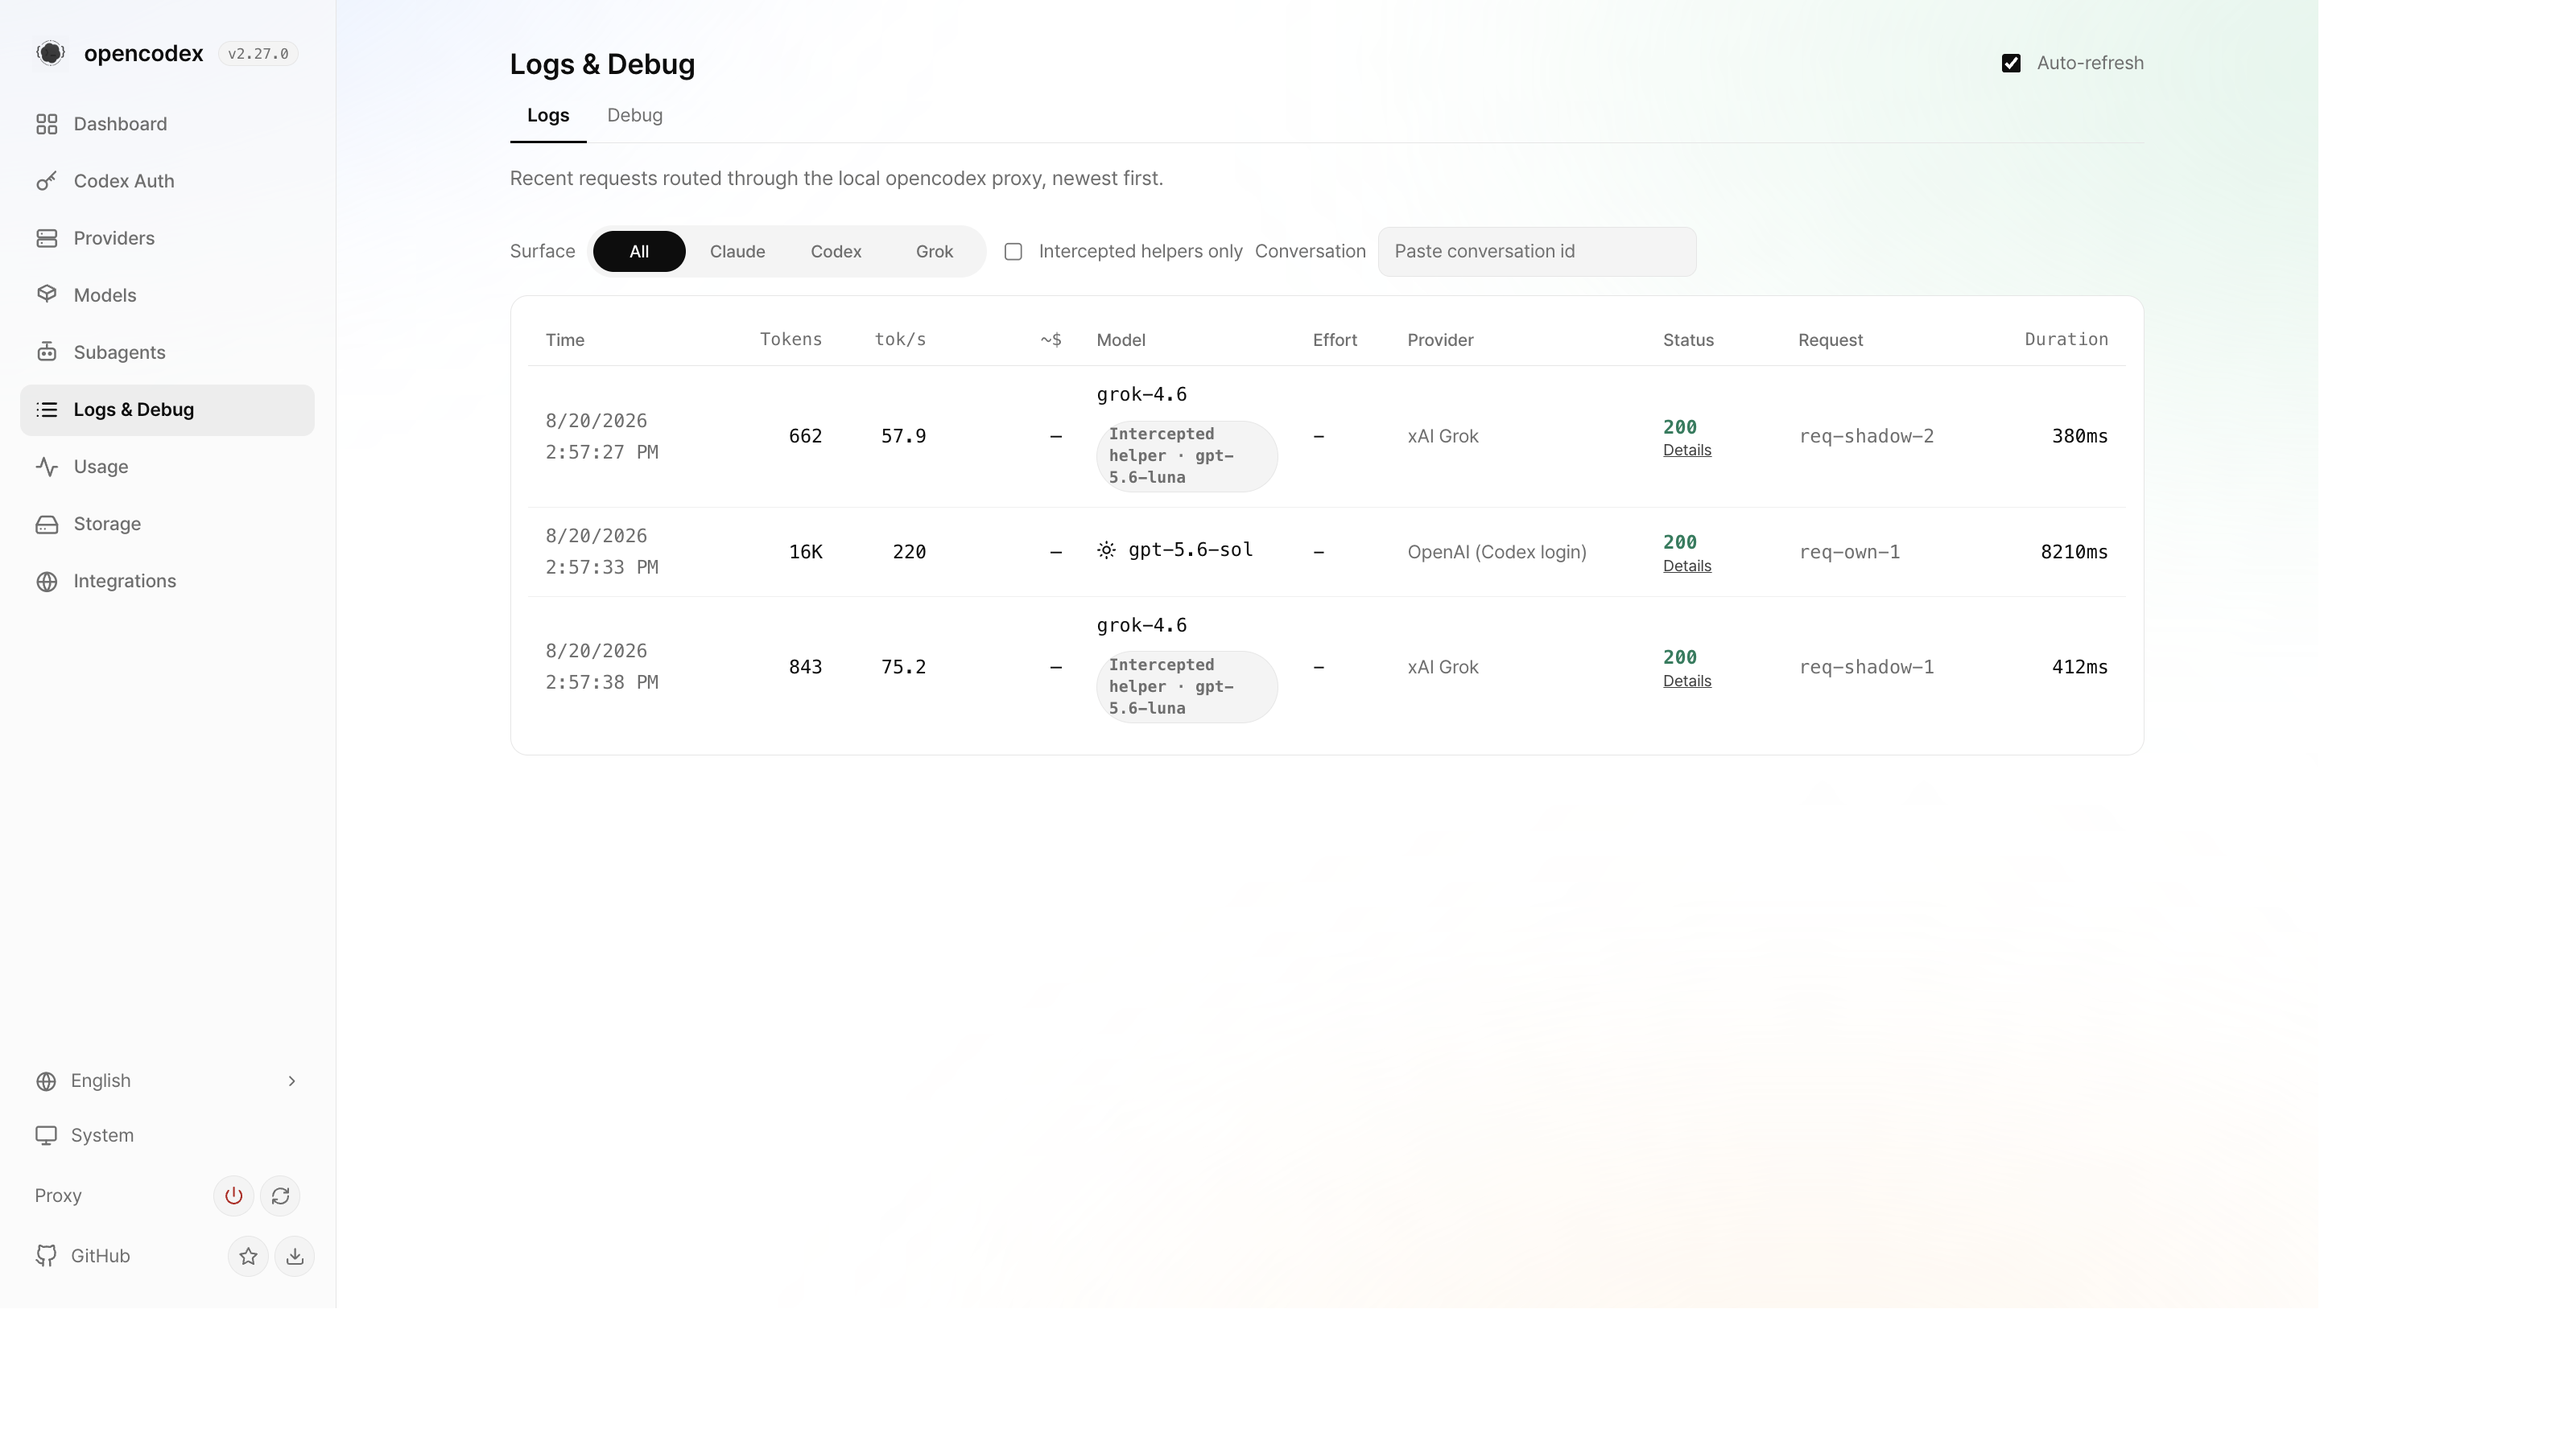
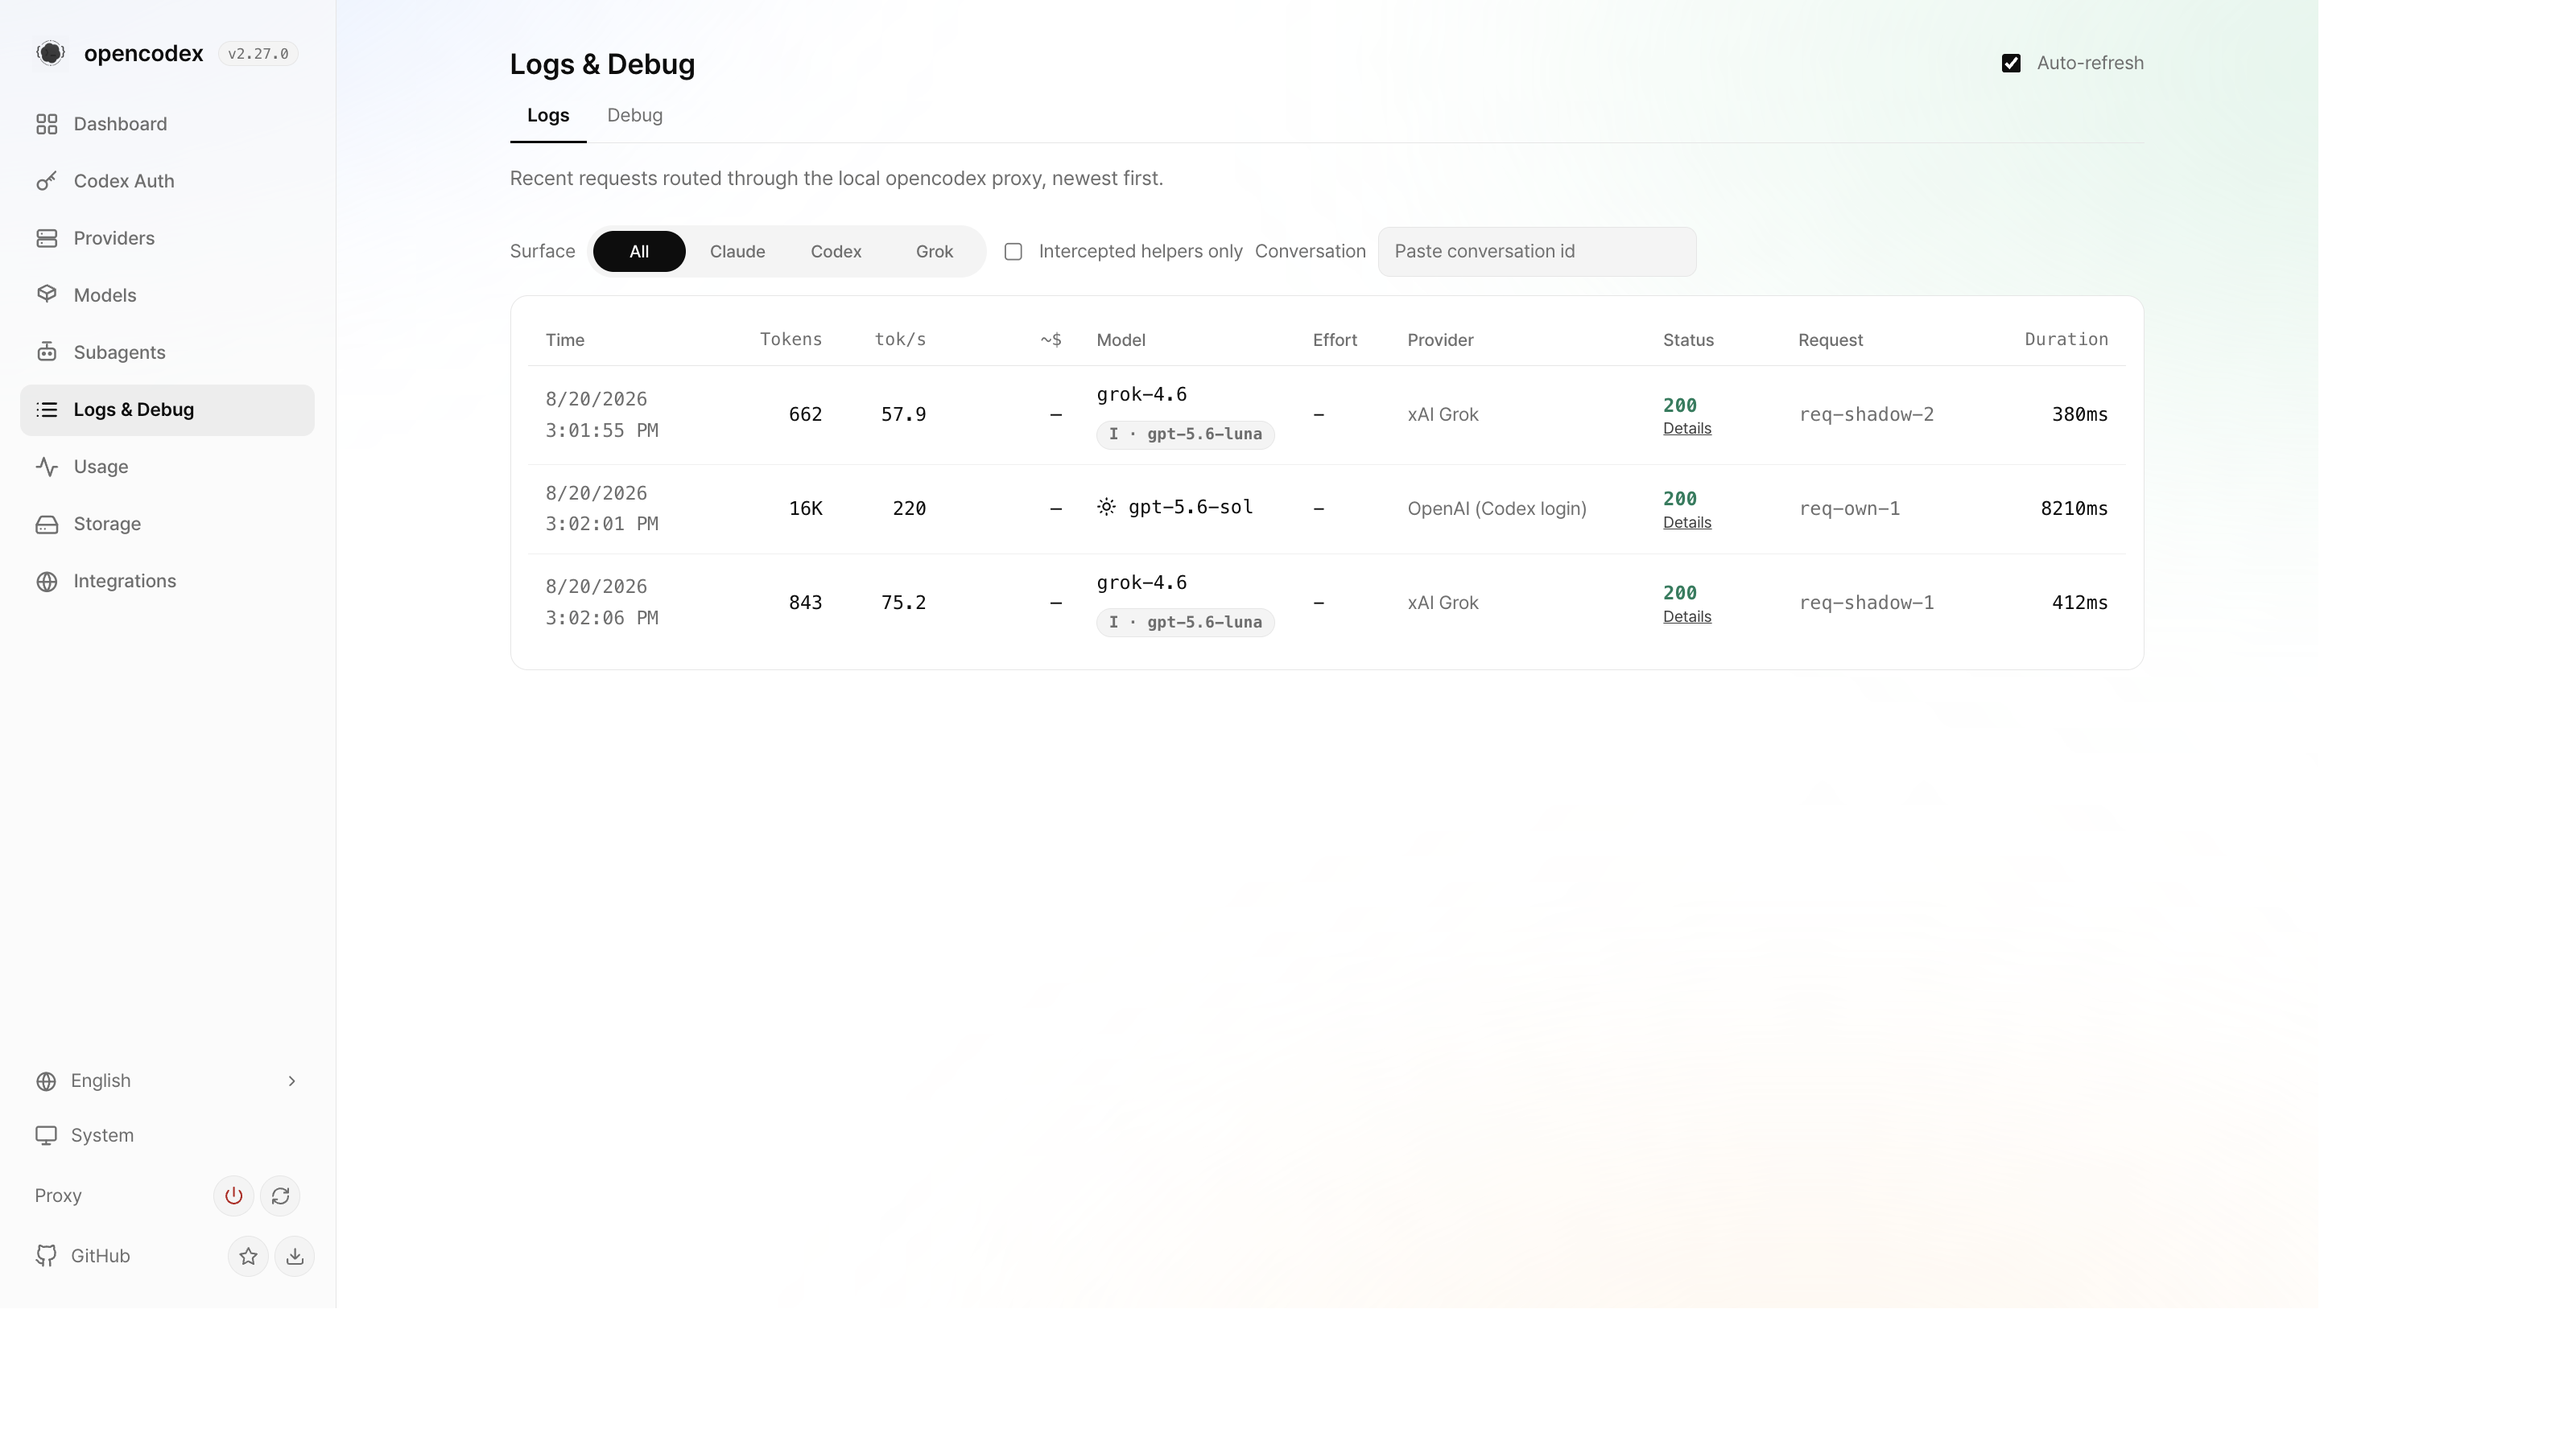
fix(gui): keep the intercepted-helper badge on one line

diff --git a/gui/tests/logs-auto-refresh.test.tsx b/gui/tests/logs-auto-refresh.test.tsx
@@ -505,7 +505,7 @@ test("Logs: an intercepted helper row is badged and filterable", async () => {
   await flushMicrotasks();
 
   // The badge names the ORIGINAL helper model, which is the attribution that was being lost.
-  expect(container.textContent).toContain("Intercepted helper · gpt-5.6-luna");
+  expect(container.textContent).toContain("I · gpt-5.6-luna");
   expect(container.textContent).toContain("gpt-test");
 
   const toggle = [...container.querySelectorAll("input[type=checkbox]")].find(
@@ -520,7 +520,7 @@ test("Logs: an intercepted helper row is badged and filterable", async () => {
   });
 
   // Filtered: the marked row stays, the ordinary one goes.
-  expect(container.textContent).toContain("Intercepted helper · gpt-5.6-luna");
+  expect(container.textContent).toContain("I · gpt-5.6-luna");
   expect(container.textContent).not.toContain("gpt-test");
 
   await act(async () => { toggle!.click(); });

diff --git a/gui/src/pages/Logs.tsx b/gui/src/pages/Logs.tsx
@@ -746,7 +746,11 @@ export default function Logs({ apiBase }: { apiBase: string }) {
                   <span className="logs-model-cell">
                    <span>{modelLabel(log.resolvedModel ?? log.model)}</span>
                       {log.shadowCallRewrittenFrom && (
-                        <span className="badge badge-muted">
+                        <span
+                          className="badge badge-muted"
+                          style={{ whiteSpace: "nowrap" }}
+                          title={t("logs.badge.interceptedHelperTitle")}
+                        >
                           {t("logs.badge.interceptedHelper", { model: log.shadowCallRewrittenFrom })}
                         </span>
                       )}

diff --git a/gui/src/i18n/ru.ts b/gui/src/i18n/ru.ts
@@ -656,7 +656,8 @@ export const ru: Record<TKey, string> = {
   "logs.filter.surface.codex": "Codex",
   "logs.filter.surface.grok": "Grok",
   "logs.filter.interceptedHelpersOnly": "Только перехваченные помощники",
-  "logs.badge.interceptedHelper": "Перехваченный помощник · {model}",
+  "logs.badge.interceptedHelper": "I · {model}",
+  "logs.badge.interceptedHelperTitle": "Перехваченный запрос помощника",
   "logs.filter.conversation.label": "Диалог",
   "logs.filter.conversation.placeholder": "Вставьте ID диалога",
   "logs.filter.conversation.clear": "Сбросить",

diff --git a/gui/src/i18n/ja.ts b/gui/src/i18n/ja.ts
@@ -615,7 +615,8 @@ export const ja: Record<TKey, string> = {
   "logs.filter.surface.codex": "Codex",
   "logs.filter.surface.grok": "Grok",
   "logs.filter.interceptedHelpersOnly": "インターセプトされたヘルパーのみ",
-  "logs.badge.interceptedHelper": "インターセプト済みヘルパー · {model}",
+  "logs.badge.interceptedHelper": "I · {model}",
+  "logs.badge.interceptedHelperTitle": "インターセプトされたヘルパー要求",
   "logs.filter.conversation.label": "会話",
   "logs.filter.conversation.placeholder": "会話 ID を貼り付け",
   "logs.filter.conversation.clear": "クリア",

diff --git a/gui/src/i18n/fr.ts b/gui/src/i18n/fr.ts
@@ -653,7 +653,8 @@ export const fr: Record<TKey, string> = {
   "logs.filter.surface.codex": "Codex",
   "logs.filter.surface.grok": "Grok",
   "logs.filter.interceptedHelpersOnly": "Assistants interceptés uniquement",
-  "logs.badge.interceptedHelper": "Assistant intercepté · {model}",
+  "logs.badge.interceptedHelper": "I · {model}",
+  "logs.badge.interceptedHelperTitle": "Requête d'assistant interceptée",
   "logs.filter.conversation.label": "Conversation",
   "logs.filter.conversation.placeholder": "Coller l’ID de conversation",
   "logs.filter.conversation.clear": "Effacer",

diff --git a/gui/src/i18n/tr.ts b/gui/src/i18n/tr.ts
@@ -663,7 +663,8 @@ export const tr: Record<TKey, string> = {
   "logs.filter.surface.codex": "Codex",
   "logs.filter.surface.grok": "Grok",
   "logs.filter.interceptedHelpersOnly": "Yalnizca yakalanan yardimcilar",
-  "logs.badge.interceptedHelper": "Yakalanan yardimci · {model}",
+  "logs.badge.interceptedHelper": "I · {model}",
+  "logs.badge.interceptedHelperTitle": "Yakalanan yardimci istegi",
   "logs.filter.conversation.label": "Sohbet",
   "logs.filter.conversation.placeholder": "Sohbet ID'sini yapıştırın",
   "logs.filter.conversation.clear": "Temizle",

diff --git a/gui/src/i18n/de.ts b/gui/src/i18n/de.ts
@@ -639,7 +639,8 @@ export const de: Record<TKey, string> = {
   "logs.filter.surface.codex": "Codex",
   "logs.filter.surface.grok": "Grok",
   "logs.filter.interceptedHelpersOnly": "Nur abgefangene Helfer",
-  "logs.badge.interceptedHelper": "Abgefangener Helfer · {model}",
+  "logs.badge.interceptedHelper": "I · {model}",
+  "logs.badge.interceptedHelperTitle": "Abgefangene Helfer-Anfrage",
   "logs.filter.conversation.label": "Konversation",
   "logs.filter.conversation.placeholder": "Konversations-ID einfügen",
   "logs.filter.conversation.clear": "Löschen",

diff --git a/gui/src/i18n/zh-TW.ts b/gui/src/i18n/zh-TW.ts
@@ -510,7 +510,8 @@ export const zhTW: Record<TKey, string> = {
   "logs.filter.surface.codex": "Codex",
   "logs.filter.surface.grok": "Grok",
   "logs.filter.interceptedHelpersOnly": "僅已攔截的輔助請求",
-  "logs.badge.interceptedHelper": "已攔截輔助請求 · {model}",
+  "logs.badge.interceptedHelper": "I · {model}",
+  "logs.badge.interceptedHelperTitle": "已攔截的輔助請求",
   "logs.filter.conversation.label": "對話",
   "logs.filter.conversation.placeholder": "貼上對話 ID",
   "logs.filter.conversation.clear": "清除",

diff --git a/gui/src/i18n/zh.ts b/gui/src/i18n/zh.ts
@@ -651,7 +651,8 @@ export const zh: Record<TKey, string> = {
   "logs.filter.surface.codex": "Codex",
   "logs.filter.surface.grok": "Grok",
   "logs.filter.interceptedHelpersOnly": "仅已拦截的辅助请求",
-  "logs.badge.interceptedHelper": "已拦截辅助请求 · {model}",
+  "logs.badge.interceptedHelper": "I · {model}",
+  "logs.badge.interceptedHelperTitle": "已拦截的辅助请求",
   "logs.filter.conversation.label": "会话",
   "logs.filter.conversation.placeholder": "粘贴会话 ID",
   "logs.filter.conversation.clear": "清除",

diff --git a/gui/src/i18n/ko.ts b/gui/src/i18n/ko.ts
@@ -658,7 +658,8 @@ export const ko: Record<TKey, string> = {
   "logs.filter.surface.codex": "Codex",
   "logs.filter.surface.grok": "Grok",
   "logs.filter.interceptedHelpersOnly": "가로챈 헬퍼만",
-  "logs.badge.interceptedHelper": "가로챈 헬퍼 · {model}",
+  "logs.badge.interceptedHelper": "I · {model}",
+  "logs.badge.interceptedHelperTitle": "가로챈 헬퍼 요청",
   "logs.filter.conversation.label": "대화",
   "logs.filter.conversation.placeholder": "대화 ID 붙여넣기",
   "logs.filter.conversation.clear": "지우기",

diff --git a/gui/src/i18n/en.ts b/gui/src/i18n/en.ts
@@ -672,7 +672,8 @@ export const en = {
   "logs.filter.surface.codex": "Codex",
   "logs.filter.surface.grok": "Grok",
   "logs.filter.interceptedHelpersOnly": "Intercepted helpers only",
-  "logs.badge.interceptedHelper": "Intercepted helper · {model}",
+  "logs.badge.interceptedHelper": "I · {model}",
+  "logs.badge.interceptedHelperTitle": "Intercepted helper request",
   "logs.filter.conversation.label": "Conversation",
   "logs.filter.conversation.placeholder": "Paste conversation id",
   "logs.filter.conversation.clear": "Clear",
